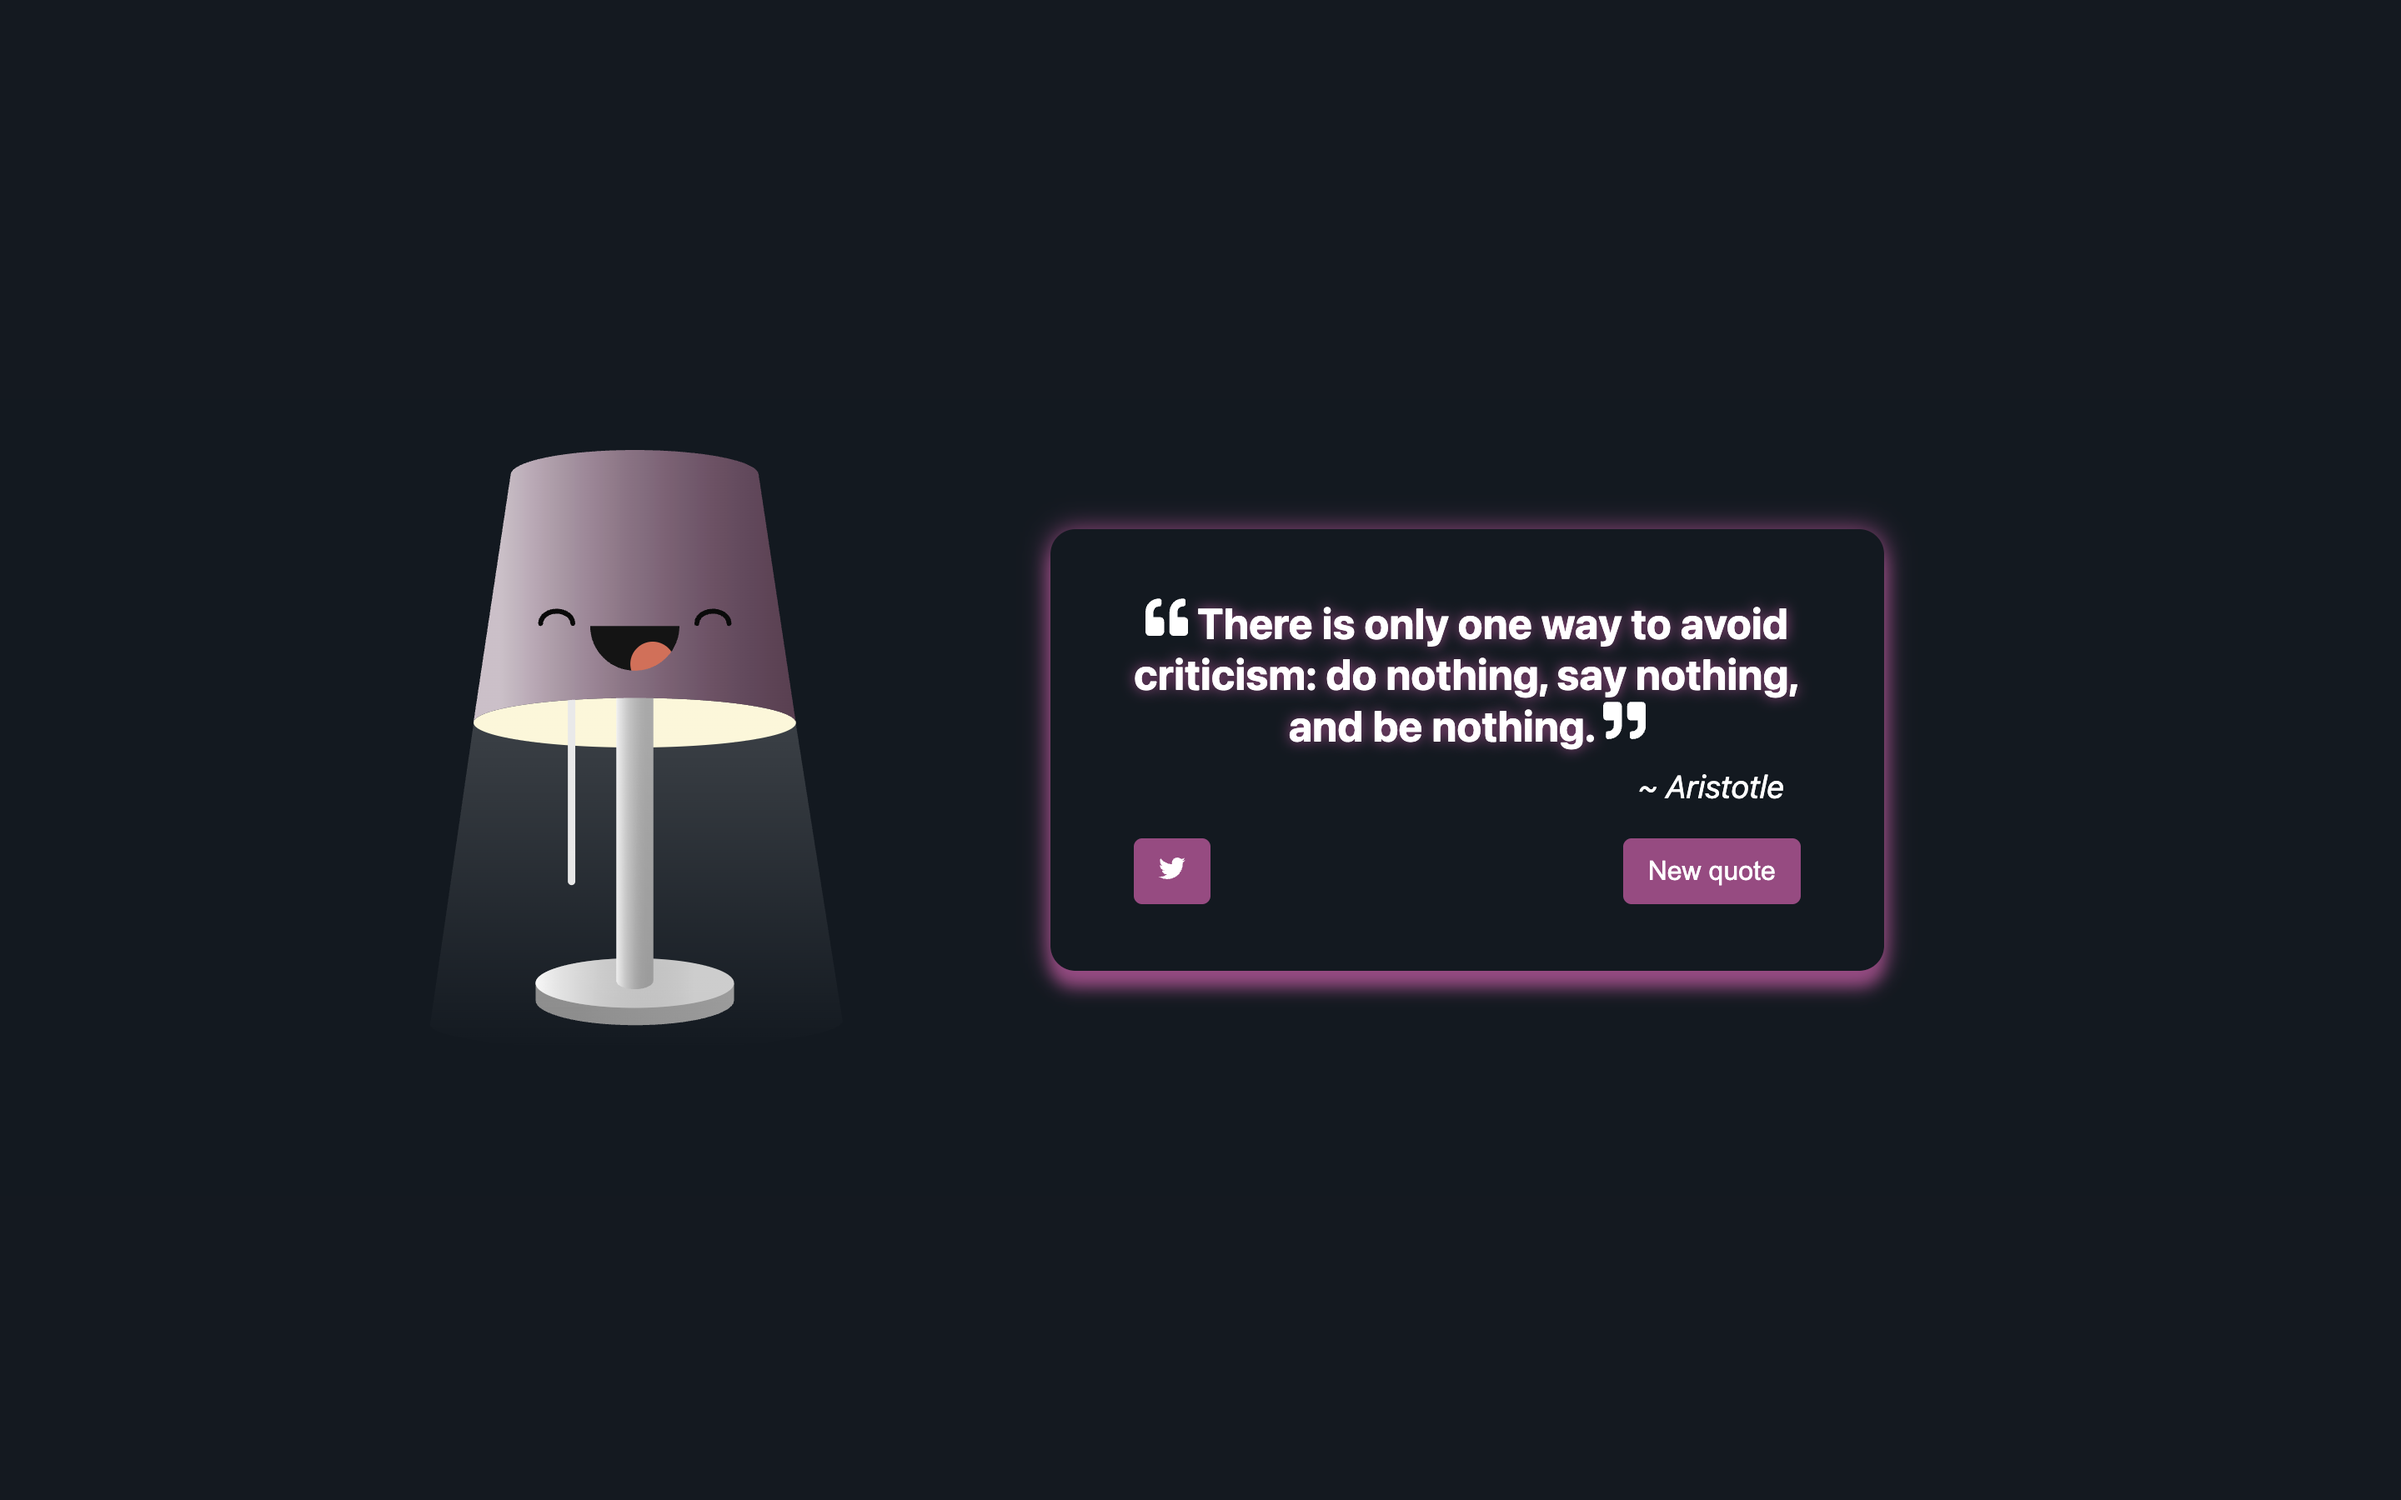
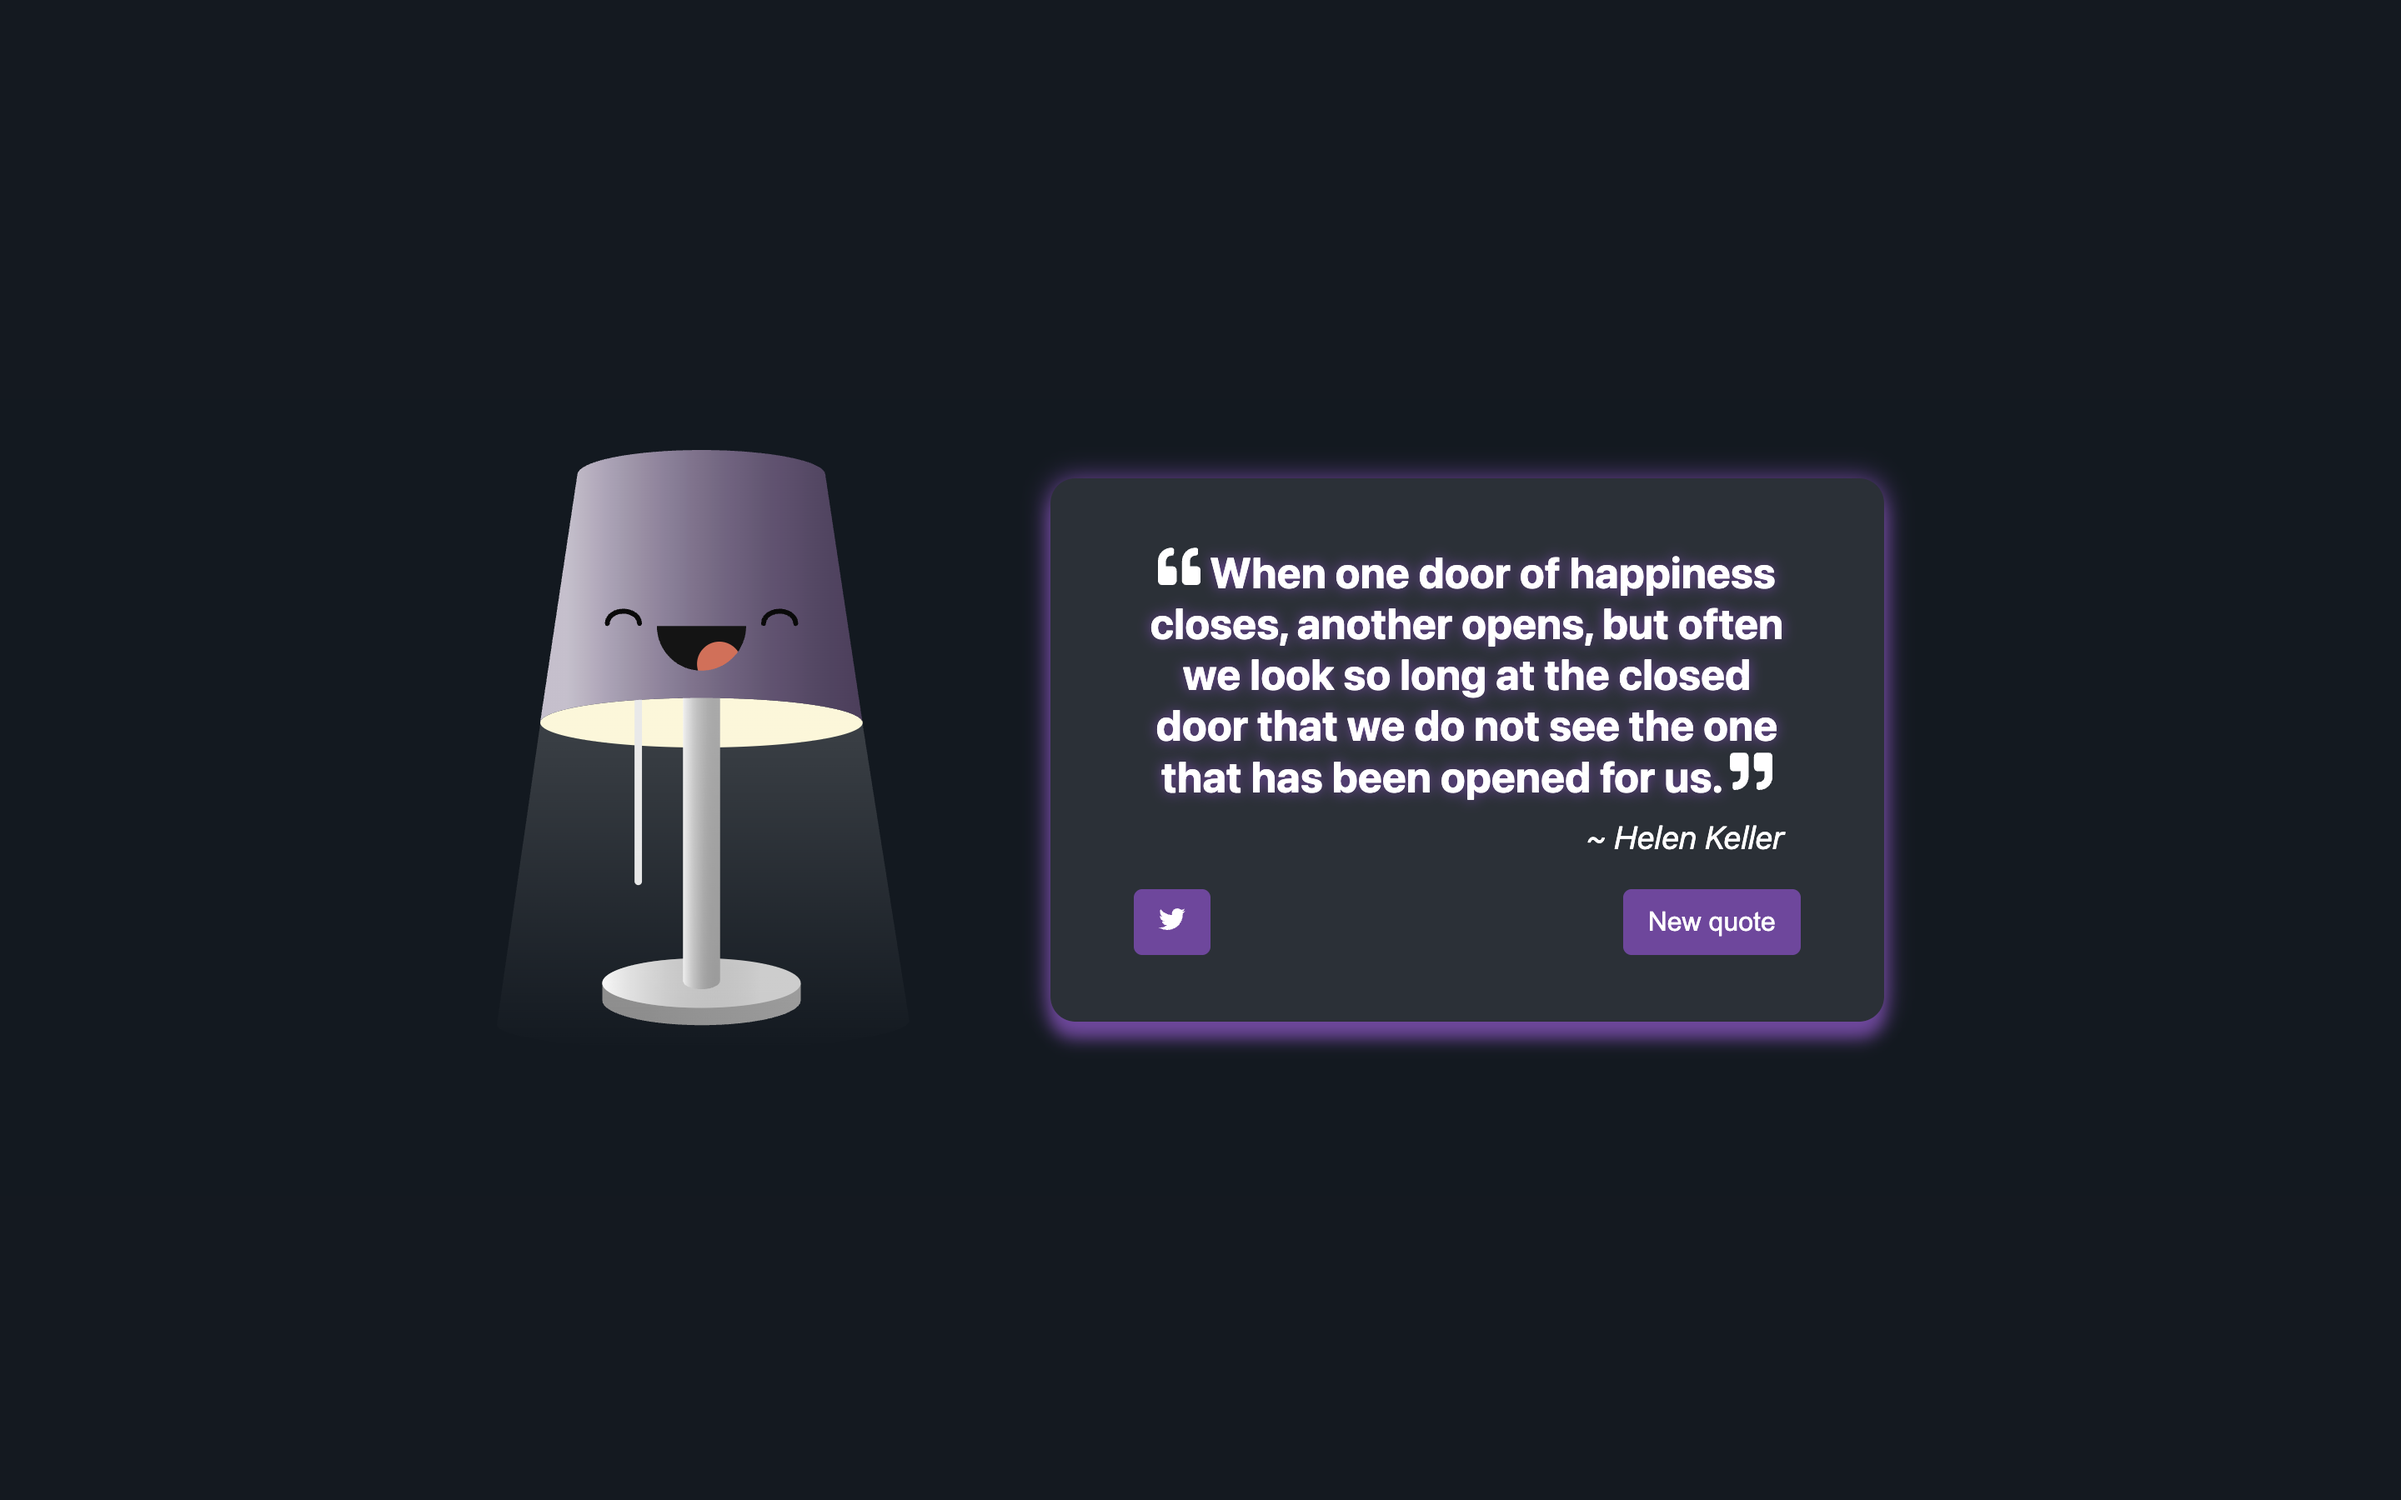
Update: Modified styling in Quote.css and index.css, updated lamp-on screenshot

Changed region(s): [[0.4062, 0.3111, 0.8125, 0.7156], [0.1875, 0.28, 0.375, 0.6844], [0.4062, 0.3422, 0.4375, 0.3733]]

diff --git a/src/components/Quote.css b/src/components/Quote.css
@@ -11,6 +11,7 @@
   text-align: center;
   border-radius: 15px;
   transition: color 1s ease;
+  background-color: rgba(255, 255, 255, 0.1);
   margin: 10px;
 }
 #author {
@@ -25,6 +26,7 @@ footer {
   justify-content: space-between;
 }
 .btn {
+  transition: background-color 1s ease;
   text-decoration: none;
   font-size: 16px;
   background-color: black;

diff --git a/src/index.css b/src/index.css
@@ -88,12 +88,11 @@ body {
   justify-content: center;
   gap: 8vmin;
   flex-wrap: wrap;
-  padding: 2rem;
+  padding: 0.5rem;
 }
 
 .login-form {
   background: rgba(18, 25, 33, 0.9);
-  padding: 3rem 2.5rem;
   border-radius: 20px;
   min-width: 320px;
   opacity: 0;
